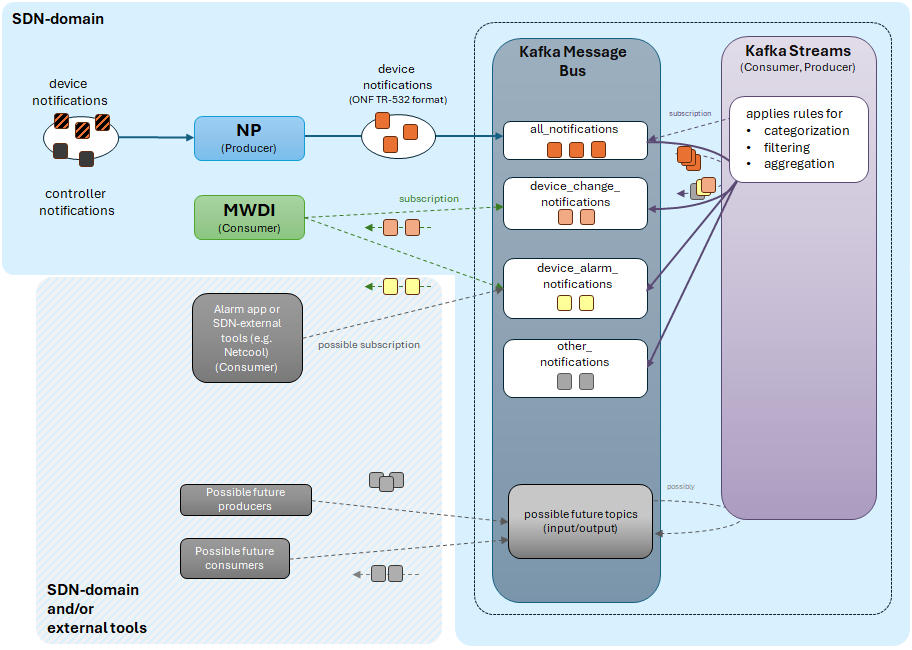
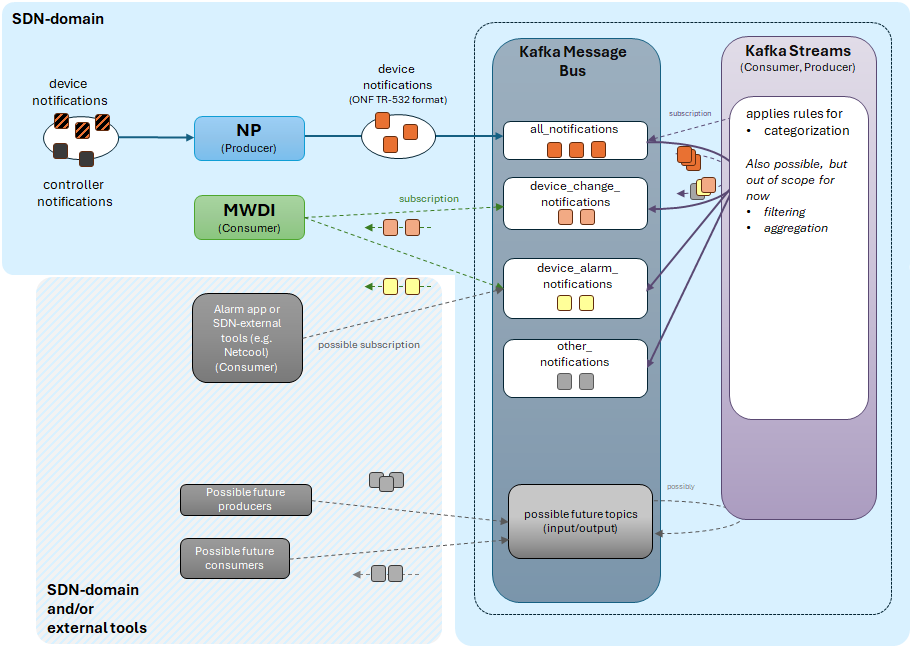
update picture

diff --git a/doc/SharedComponents/Kafka/KafkaStreams.md b/doc/SharedComponents/Kafka/KafkaStreams.md
@@ -34,15 +34,15 @@ The categorized notifications are written to specific output topics on the Kafka
 
 #### Processing
 
-The following diagram provides an overview about the processing of notifications by KafkaStreams.  
+The following diagram provides an overview about the processing of notifications by Kafka Streams.  
 ![KafkaStreamsOverview](./images/kafkaStreamsSetup.png)  
 
-NotificationProxy (Producer):
+***NotificationProxy (Producer)***
 - The NotificationProxy continuously receives device notifications (including alarms) and controller notifications.  
 - After having transformed the device notifications into ONF TR-532 format, it publishes them to the Kafka Message Bus to topic `allnotifications`.
 - Controller notifications are not being sent to Kafka.
 
-Kafka Streams (Producer and Consumer):
+***Kafka Streams (Consumer and Producer)***
 - a Kafka Streams processor subscribes to `all_notifications` topic and analyzes the content of each notification.
 - based on predefined classification rules (which e.g. can be keywords, message structures or metadata), it assigns each notification to a category
   - processing rules would also allow for filtering and aggregating notifications, this may be added at a later stage as well
@@ -51,7 +51,7 @@ Kafka Streams (Producer and Consumer):
   - `device_alarm_notifications`: containing all notifications in ONF TR-532 format about device alarm changes
   - `other_notifications`: notifications from `all_notifications`, which cannot be mapped to the other two topics, will be published to this topic
 
-Consumers:
+***Consumers***
 - For the start MWDI will be the only consumer for both `device_change_notifications` and `device_alarm_notifications`
 - additional applications could also subscribe to those topics
   - e.g. a possible SDN alarm application could subscribe to `device_alarm_notifications`
